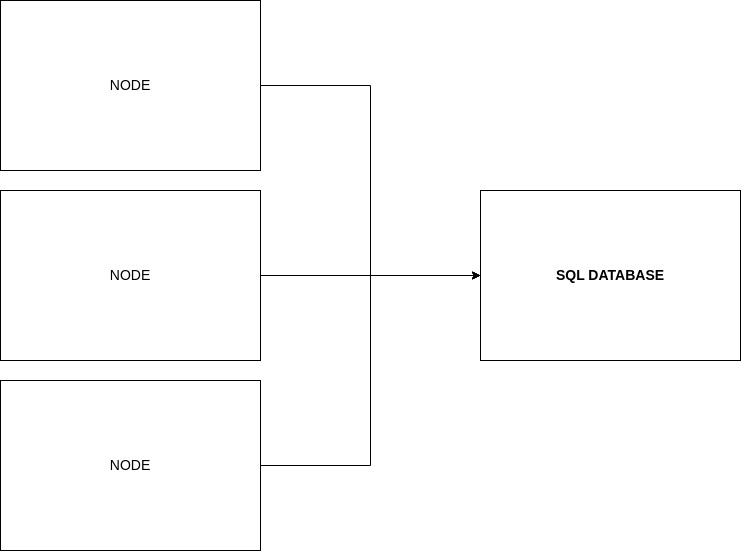
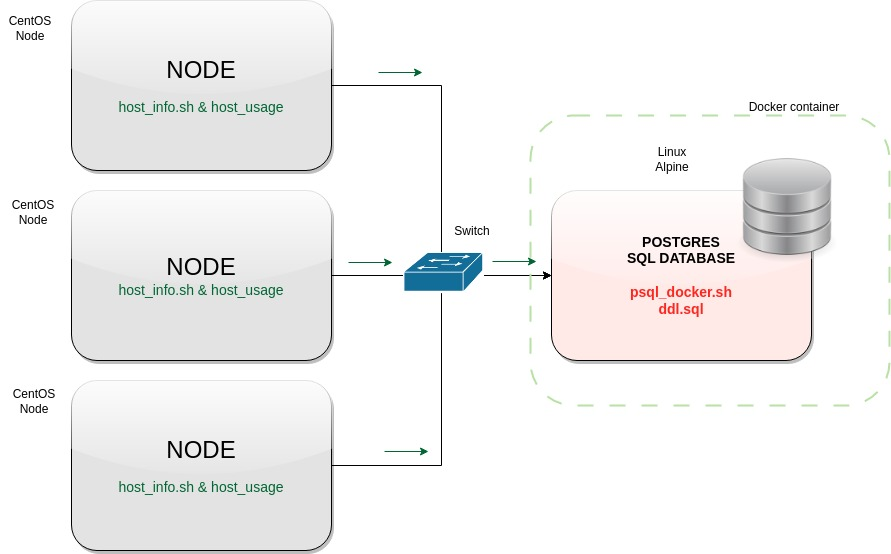
updated linux_sql readme

diff --git a/linux_sql/README.md b/linux_sql/README.md
@@ -1,45 +1,81 @@
 # Introduction
-Designerd and implemented a Linux cluster monitoring agent. The system is composed by bash scripts that retrieve the system information from the hosting node and a database where the information it's stored.
-The database is updated regularly using the cron command with the informations provided by all the nodes. The database is Postgres running on a Linux alpine
 
-(about 100-150 words)
-Discuss the design of the project. What does this project/product do? Who are the users? What are the technologies you have used? (e.g. bash, docker, git, etc..)
+Designed and implemented a Linux cluster monitoring agent using bash scripts. 
+The system allows users to keep track of a cluster's hardware and usage information in real-time.
+The project has been implemented using bash scripting in combination of sql scripting.
+To accomplish this, four bash scripts have been created.
+The data is updated regularly using the cron command, ensuring
+that the information about the cluster's performance is always up-to-date.
 
 # Quick Start
-Use markdown code block for your quick-start commands
-- Start a psql instance using psql_docker.sh
-- Create tables using ddl.sql
-- Insert hardware specs data into the DB using host_info.sh
-- Insert hardware usage data into the DB using host_usage.sh
-- Crontab setup
+- Create a docker container running Alpine Linux using psql_docker.sh bash script.
+- Start a Postgres SQL instance using psql_docker.sh bash script.
+- Create tables using ddl.sql.
+- Fetch hardware specifications of the nodes and store them to the DB using host_info.sh.
+- Fetch hardware usage data into the DB using host_usage.sh.
+- Automate the execution of host_usage.sh with the Crontab setup.
 
 # Implemenation
-Discuss how you implement the project.
+The first script, psql_docker.sh, sets up a Docker container running the Postgres database on
+a Linux Alpine system.
+The sql scripts create the tables to store the hardware information and the cpu and memory usage.
+The other two scripts, host_info and host_usage fetch the system information from each hosting node
+(CPU and memory usage) as well the hardware specifications on the running machine as well of
+hardware components.
+
 ## Architecture
-Draw a cluster diagram with three Linux hosts, a DB, and agents (use draw.io website). Image must be saved to the `assets` directory.
+The following graph schematically represents the configuration of a cluster with 3 nodes and a containerized database instance.
+![my image](./assets/cluster.jpg)
 
 ## Scripts
-Shell script description and usage (use markdown code block for script usage)
-- psql_docker.sh
-- host_info.sh
-- host_usage.sh
-- crontab
+- psql_docker.sh (set up a docker container with Linux Alpine and start a Postgres Instance)
+- host_info.sh (fetch the information about the node's hardware and store it to the database)
+- host_usage.sh (fetch the information about the node's usage and store it to the database)
+- crontab (setup automatic uploads each minutes for the cpu usage and memory usage)
+- ddl.sql (define the tables for the retrieved information)
 - queries.sql (describe what business problem you are trying to resolve)
 
 ## Database Modeling
-Describe the schema of each table using markdown table syntax (do not put any sql code)
-- `host_info`
-- `host_usage`
+### HOST INFO TABLE
+
+| Column Name       | Data Type         | Constraints                 |
+|-------------------|-------------------|-----------------------------|
+| id                | SERIAL NOT NULL   | PRIMARY KEY (id)            |
+| hostname          | VARCHAR NOT NULL  |                             |
+| cpu_number        | INT2 NOT NULL     |                             |
+| cpu_architecture  | VARCHAR NOT NULL  |                             |
+| cpu_model         | VARCHAR NOT NULL  |                             |
+| cpu_mhz           | FLOAT8 NOT NULL   |                             |
+| l2_cache          | INT4 NOT NULL     |                             |
+| timestamp         | TIMESTAMP NULL    |                             |
+| total_mem         | INT4 NULL         |                             |
+
+
+### HOST USAGE TABLE
+
+| Column Name    | Data Type       | Constraints                                            |
+|----------------|----------------|--------------------------------------------------------|
+| id             | SERIAL          | PRIMARY KEY, NOT NULL                                  |
+| timestamp      | TIMESTAMP      | NOT NULL                                               |
+| host_id        | INTEGER        | NOT NULL, FOREIGN KEY REFERENCES PUBLIC.host_info(id)  |
+| memory_free    | INTEGER         |                                                        |
+| cpu_idle       | INTEGER         |                                                        |
+| cpu_kernel     | INTEGER         |                                                        |
+| disk_io        | INTEGER         |                                                        |
+| disk_available | INTEGER         |                                                        |
+
 
 # Test
-How did you test your bash scripts DDL? What was the result?
+The monitoring system has been tested on a single node running Linux CentOS. 
 
 # Deployment
-How did you deploy your app? (e.g. Github, crontab, docker)
+The app has been deployed to run automatically on the machine where is installed.
+Cron command will execute the scripts each minute.
+The SQL server has been deployed on an Alpine Linux container using Docker.
+A volume has been used to store the data permanent.
+All the scripts have been uploaded to my GitHub repository.
 
 # Improvements
-Write at least three things you want to improve 
-e.g. 
-- handle hardware updates 
-- blah
-- blah
+- I would implement an ASCII graphical representation of the usage of all the connected nodes.
+- It could be interesting to create another table with the downtime of the machines on the cluster.
+- Enable the access to the information from a webpage accessible from anywhere.
